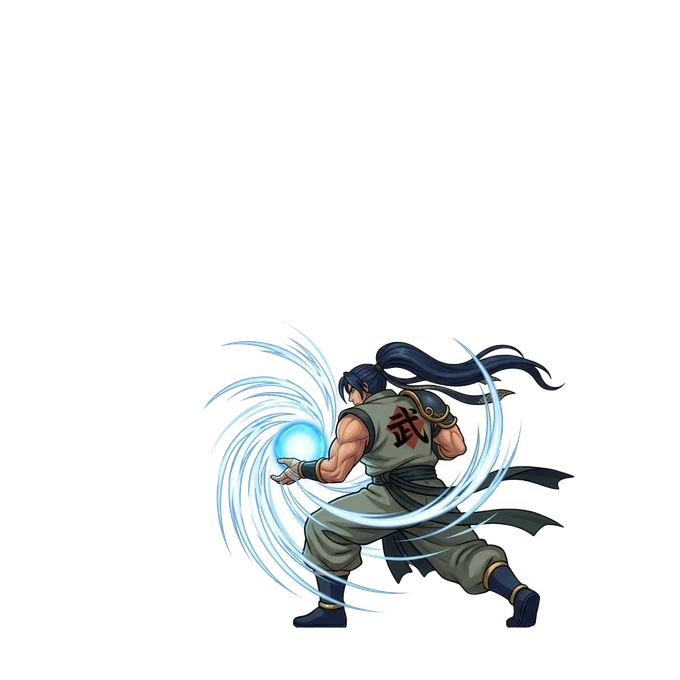
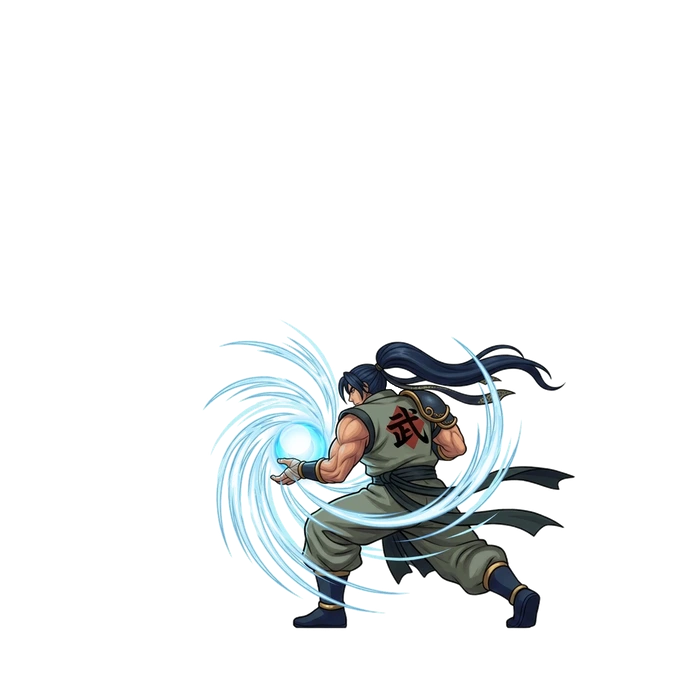
Re-matte #022 Karis Frame 2 swirling Qi ribbons cleanly (?v=42)
- Re-extracted `u_022/nb6_1.webp` (`omni_1.webp`, `nb6_sheet.jpg`) directly
  from raw 1024x1024 `karis_v2_f2.png` using continuous cyan-on-white color
  alpha un-premultiplication instead of `binary_fill_holes` (which had filled
  trapped white background pockets inside the swirling Qi ribbon loop).
- Cleared all trapped `#FFFFFF` pockets behind his back/shoulder, behind his
  neck/collar (`71px` triangle), between his thighs/legs, and every narrow
  white stripe between parallel swirling ribbons.
- Kept the glowing Hadouken sphere centered inside his cupped palms and sealed
  only narrow micro-pinholes (`194px`) and the sandwiched bright specular core
  of the thick foreground ribbon crossing his thigh (`132px`).
- Preserved bit-exact untouched `nb6_0`, `nb6_2..5`, and `omni_0`, `omni_2..9`
  WebPs; `0` border clips.
- Bumped cache-bust version `?v=41` -> `?v=42` in `src/ui/vfxLab.ts` and
  `src/gallery.ts`; verified `npm run build` (`1.94s`, 0 errors) and live
  1600x900 Playwright capture (`0` page errors, `0` failed assets).

diff --git a/src/gallery.ts b/src/gallery.ts
@@ -1191,7 +1191,7 @@ class MappingGalleryApp {
                   <div>
                     <div class="mono-tag" style="font-size:10px; color:#fde047; margin-bottom:2px;">💥 Crit Cut-In</div>
                     <img
-                      src="assets/vfx_lab/units/u_${String(entry.id).padStart(3, '0')}/cutin.jpg?v=41"
+                      src="assets/vfx_lab/units/u_${String(entry.id).padStart(3, '0')}/cutin.jpg?v=42"
                       loading="lazy"
                       alt="${entry.nameZh} Cut-In"
                       style="width:100%; aspect-ratio:16/9; object-fit:cover; border-radius:5px; border:1px solid #334155; background:#05080f;"
@@ -1200,7 +1200,7 @@ class MappingGalleryApp {
                   <div>
                     <div class="mono-tag" style="font-size:10px; color:#7dd3fc; margin-bottom:2px;">🖼 HD 6-Frame Sheet</div>
                     <img
-                      src="assets/vfx_lab/units/u_${String(entry.id).padStart(3, '0')}/nb6_sheet.jpg?v=41"
+                      src="assets/vfx_lab/units/u_${String(entry.id).padStart(3, '0')}/nb6_sheet.jpg?v=42"
                       loading="lazy"
                       alt="${entry.nameZh} 6-Frame Sheet"
                       style="width:100%; aspect-ratio:16/9; object-fit:contain; border-radius:5px; background:#ffffff; border:1px solid #334155;"

diff --git a/src/ui/vfxLab.ts b/src/ui/vfxLab.ts
@@ -259,7 +259,7 @@ function loadImg(url: string): Promise<HTMLImageElement> {
   });
 }
 
-const VFX_ASSET_VERSION = '?v=41';
+const VFX_ASSET_VERSION = '?v=42';
 
 function enrichUnitMetadataFromGameData(assets: AssetManager, entry: VfxManifestUnitEntry): VfxManifestUnitEntry {
   const dex = assets.gameData.unitDex?.[entry.uid];
